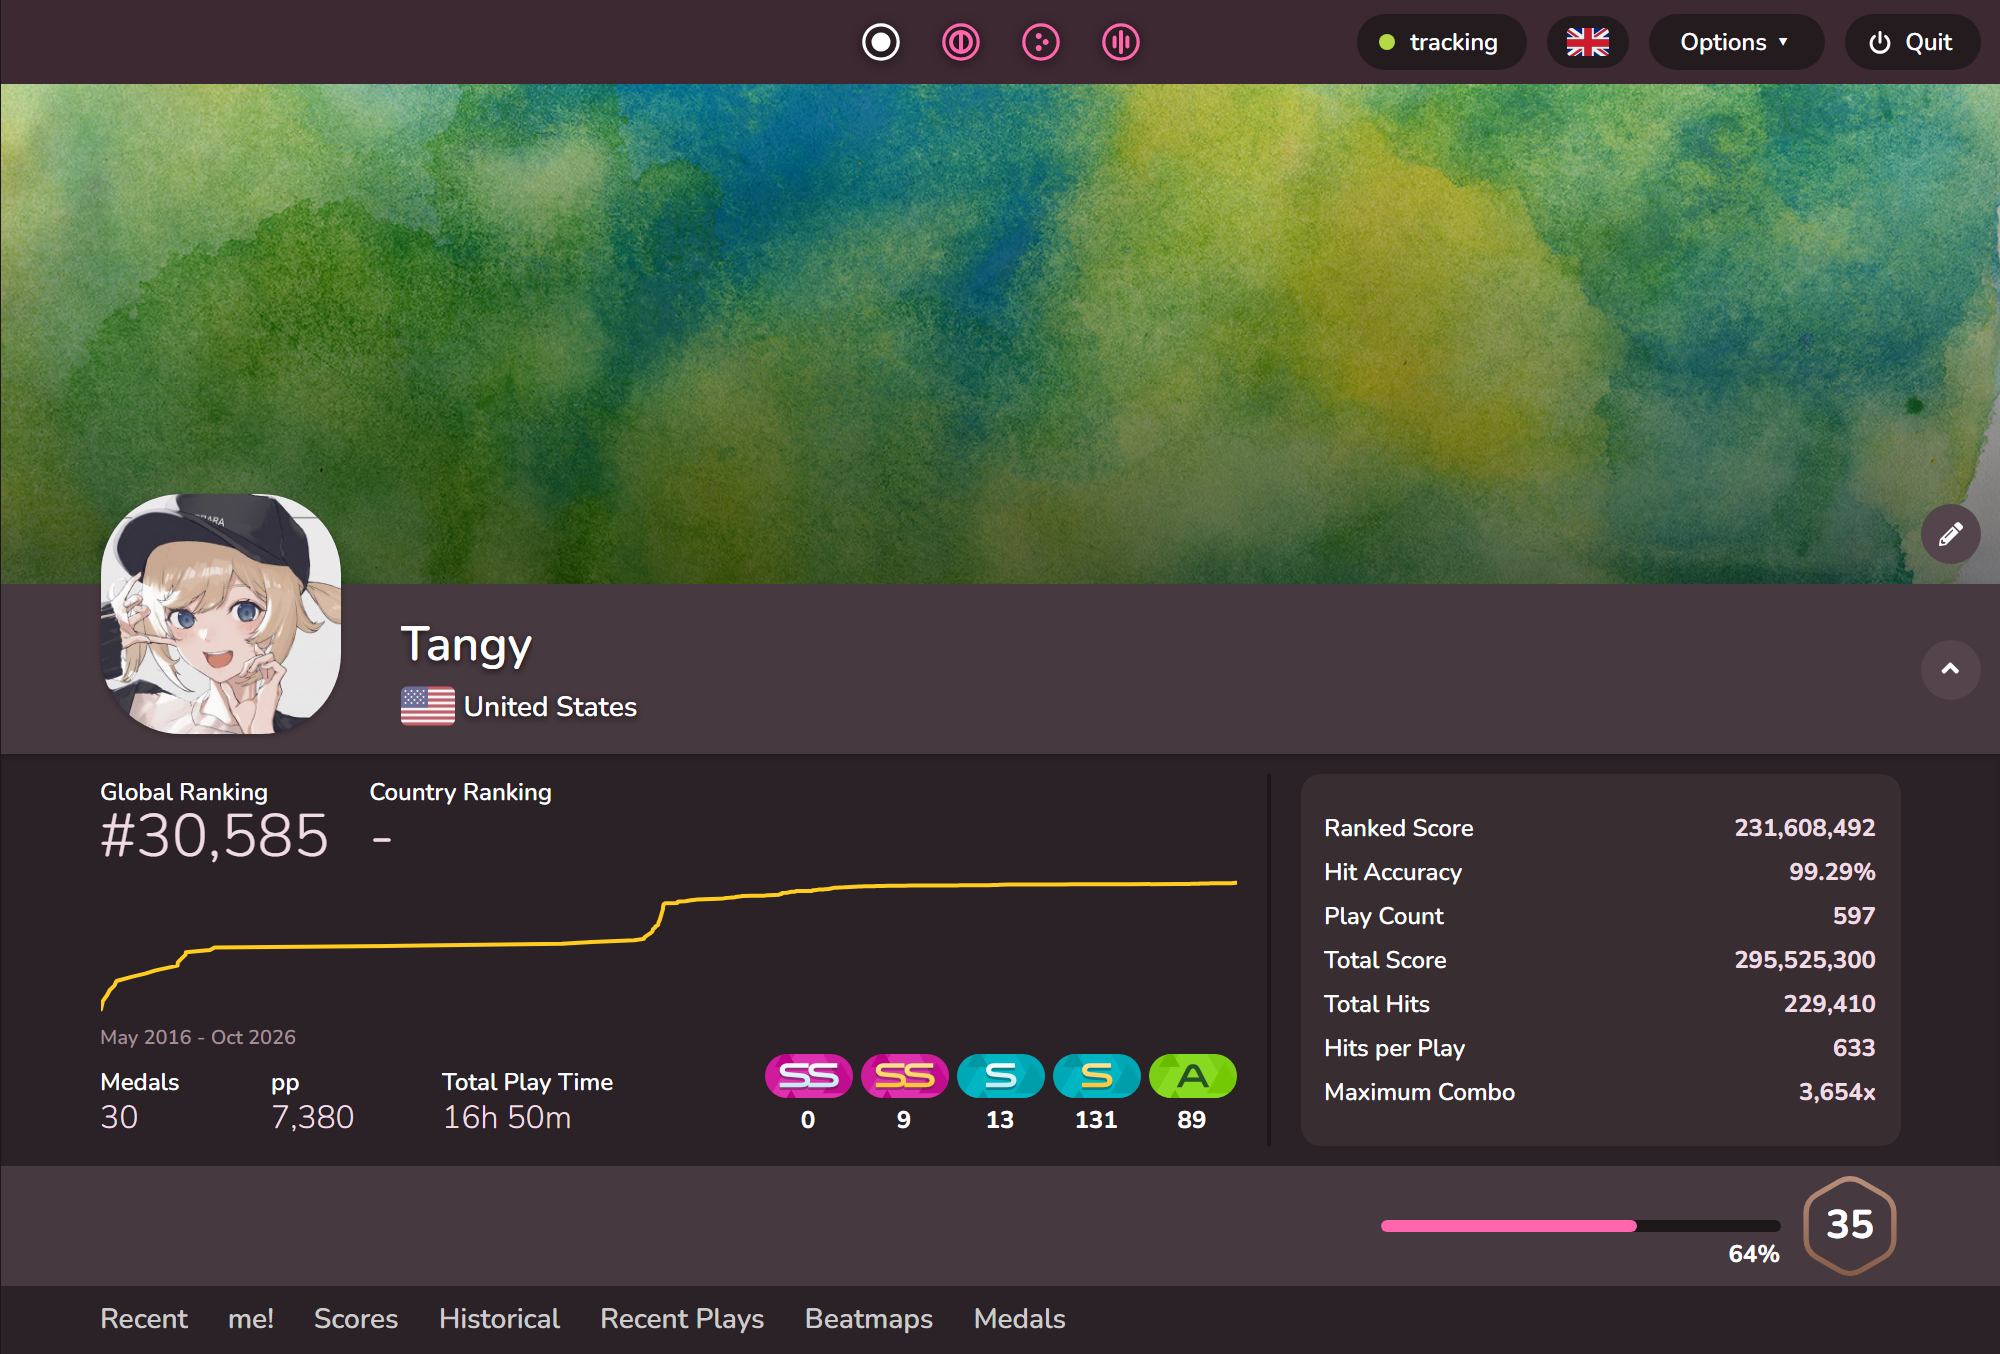
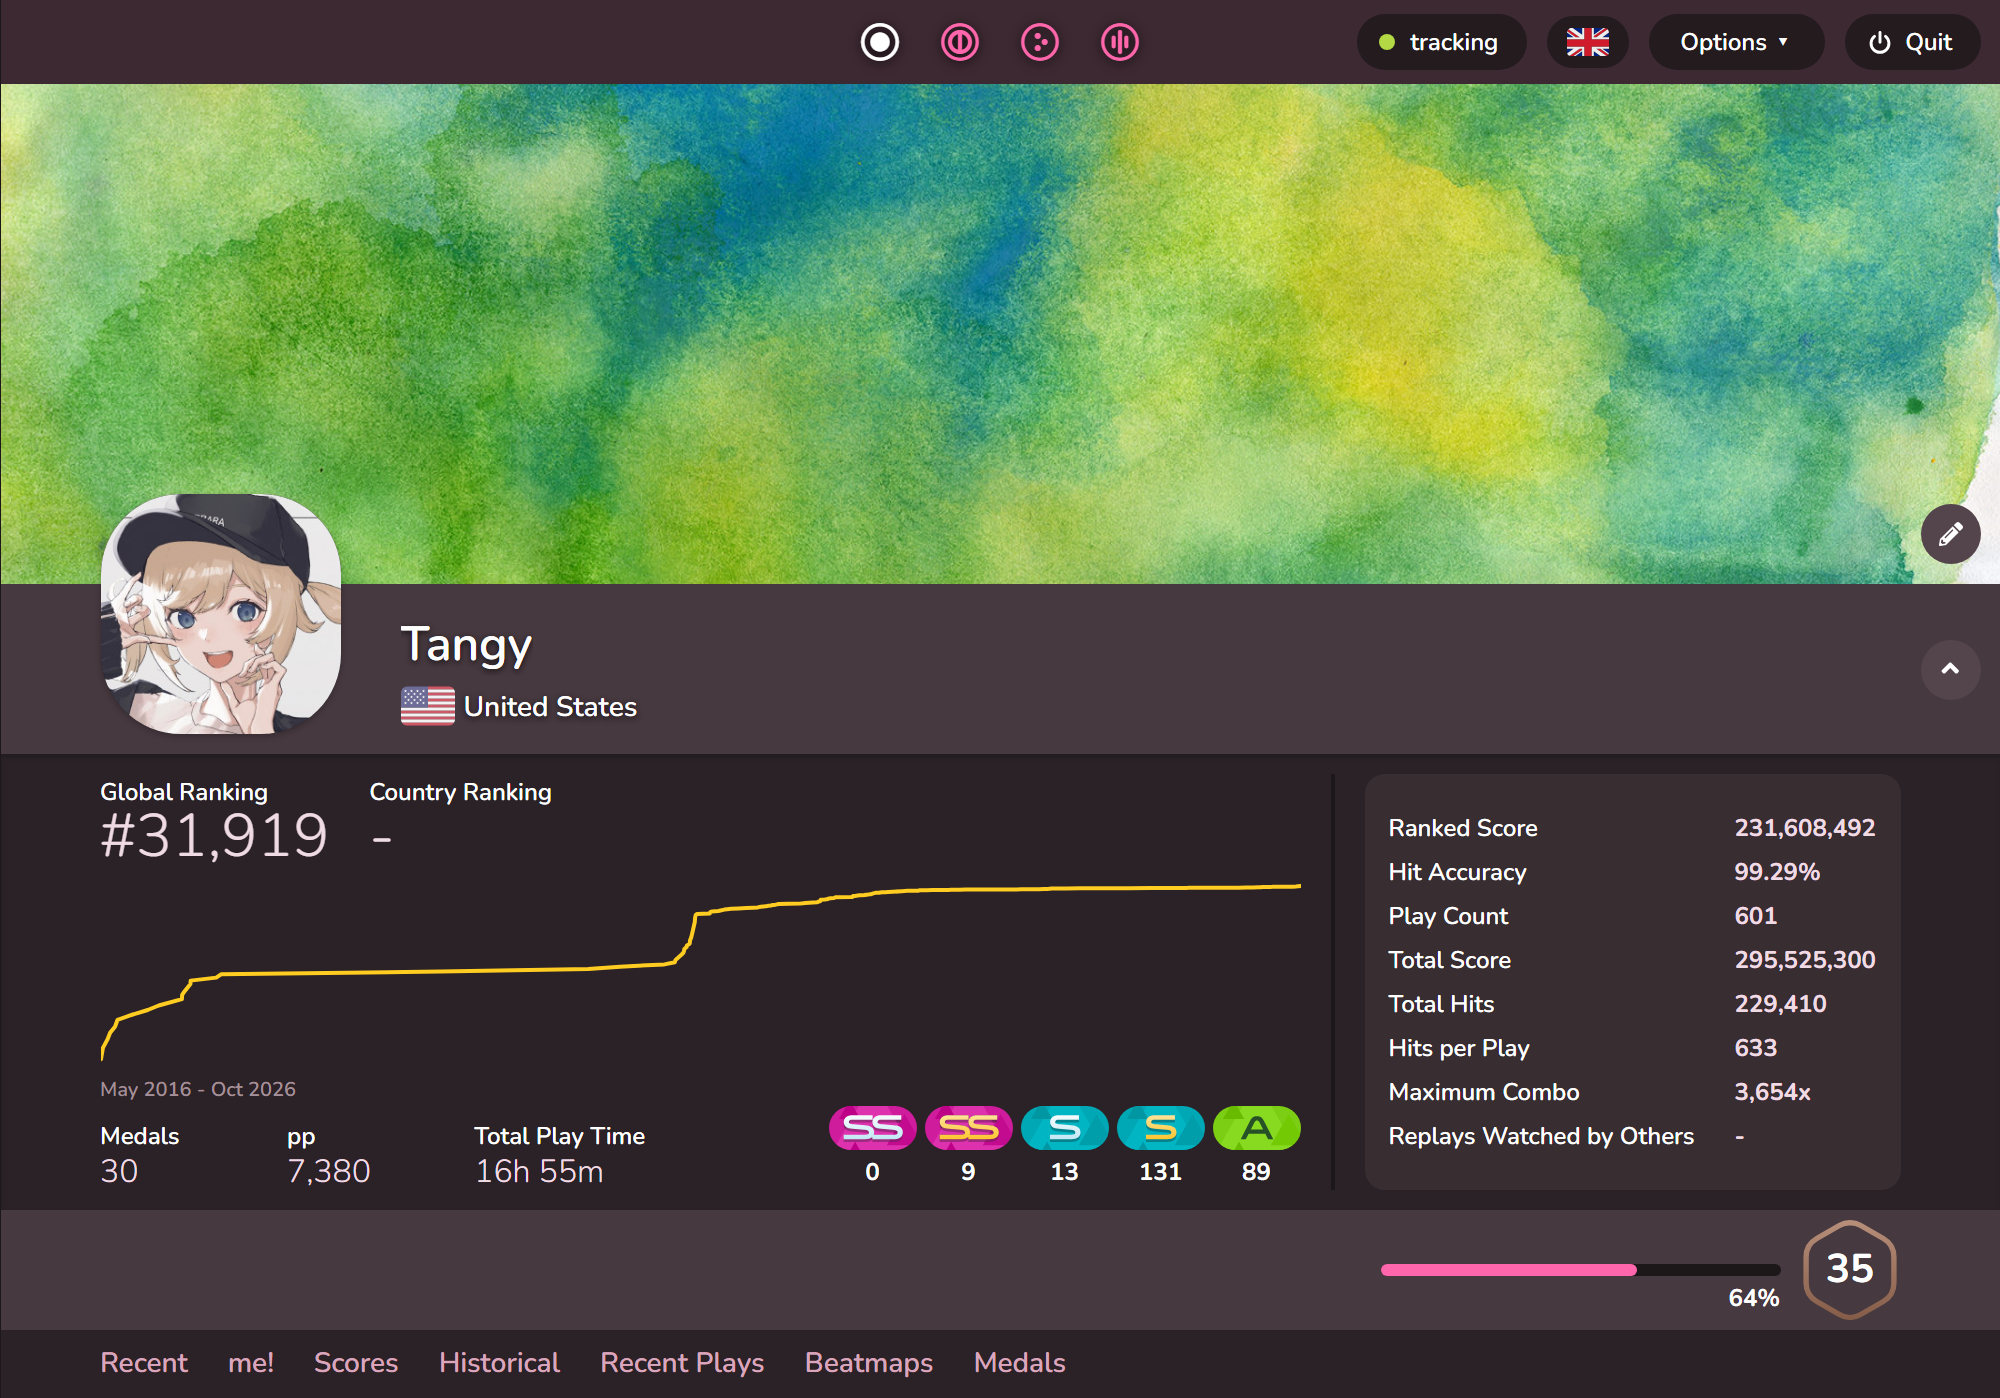
docs: README screenshots and changelog for 1.34.0

diff --git a/CHANGELOG.md b/CHANGELOG.md
@@ -1,5 +1,48 @@
 # Changelog
 
+## 1.34.0
+
+- **neki is supported.** Its plays are tracked as neki instead of osu!stable, and scored as
+  osu!stable scores them. Its extra mods count as osu!lazer's, and its quits and fails count as
+  Not submitted plays. Plays it set before this version move under neki.
+
+- **neomod is supported.** Its plays are tracked as neomod and scored as osu!stable scores them.
+  Its speed and CS/AR/OD/HP settings count as Double Time, Half Time and Difficulty Adjust, and
+  Singletap, Alternate, Traceable and Freeze Frame as osu!lazer's mods. Its other experimental mods
+  show as one **NEO** mod and don't change pp. On Windows it's found wherever you've run it from.
+
+- **The play tracking filter can keep only the names you choose.** Its new **Player names** lists
+  the names on your plays and the one osu! is signed in under. Untick a name to stop tracking it,
+  add your own names, and choose whether plays with no name (Guest) count. Plays already turned
+  away under a name come back with the next Import past plays. Your other names moved here.
+
+- **Clicking a score row opens the score, as on osu!**
+
+- **Star ratings on score rows are an option, off by default as on osu!** It's in Other settings.
+  If you're updating, a note under Scores says where it went.
+
+- **Most Played rows show the beatmap's cover and play count, as on osu!** The cover and title
+  open the beatmap.
+
+- **The stats box is laid out as on osu!.** Values are left-aligned, it has osu!'s last line,
+  Replays Watched by Others (a dash for now), and the rank chart grows to the box's height.
+
+- **The mode icons are drawn as osu! draws them.** They're sharper with display scaling, and the
+  score view and favourite beatmaps use them too.
+
+- **The page looks more like osu!'s.** The banner is at full brightness, section links are osu!'s
+  pink, bold text is a little lighter, and a score's menu button sits in the row's right edge.
+
+- **Explicit favourite beatmaps play their preview too.**
+
+- **The browser tab names the profile, as osu!'s player page does.** It reads "Tangy · local
+  profile | osu!".
+
+- **The program kept for updating from before 1.33.0 no longer looks like the app.** On Windows,
+  `node.exe` has no icon, and its description says what it's for.
+
+- **Everything new in this release is translated into all 15 languages.**
+
 ## 1.33.1
 
 - **Global rank estimates use osu!'s November 2026 ranking data.** The global rank on your profile

diff --git a/docs/maintaining.md b/docs/maintaining.md
@@ -117,10 +117,13 @@ database's first profile. It must not pass a filter. Use it on a copy.
 
 ## README screenshots
 
-The README's images are `.webp` in `docs/images/`. Git keeps every version forever, so keep them
-few, cropped and re-encoded (a full-width section is 60-160KB as WebP at quality 90, against
-150KB-1.4MB as PNG), and replace one only when the page actually looks different. `docs/` is never
-packaged. Don't put them in `web/`, which ships with every release.
+The README has two shots of the same size in `docs/images/`, `profile.png` and `scores.png`, as
+PNG, since WebP came out blurry. Take them in headless Chrome at 1121 CSS pixels wide and twice the
+scale, cropped to the 1000-pixel content column: `profile.png` from the top to the bottom of the
+section links, and `scores.png` the me! and Scores sections, centred in the same height. Measure
+before cropping, since the page's heights move. Git keeps every version forever, so replace them
+only when the page actually looks different. `docs/` is never packaged. Don't put them in `web/`,
+which ships with every release.
 
 ## The sample profile
 
